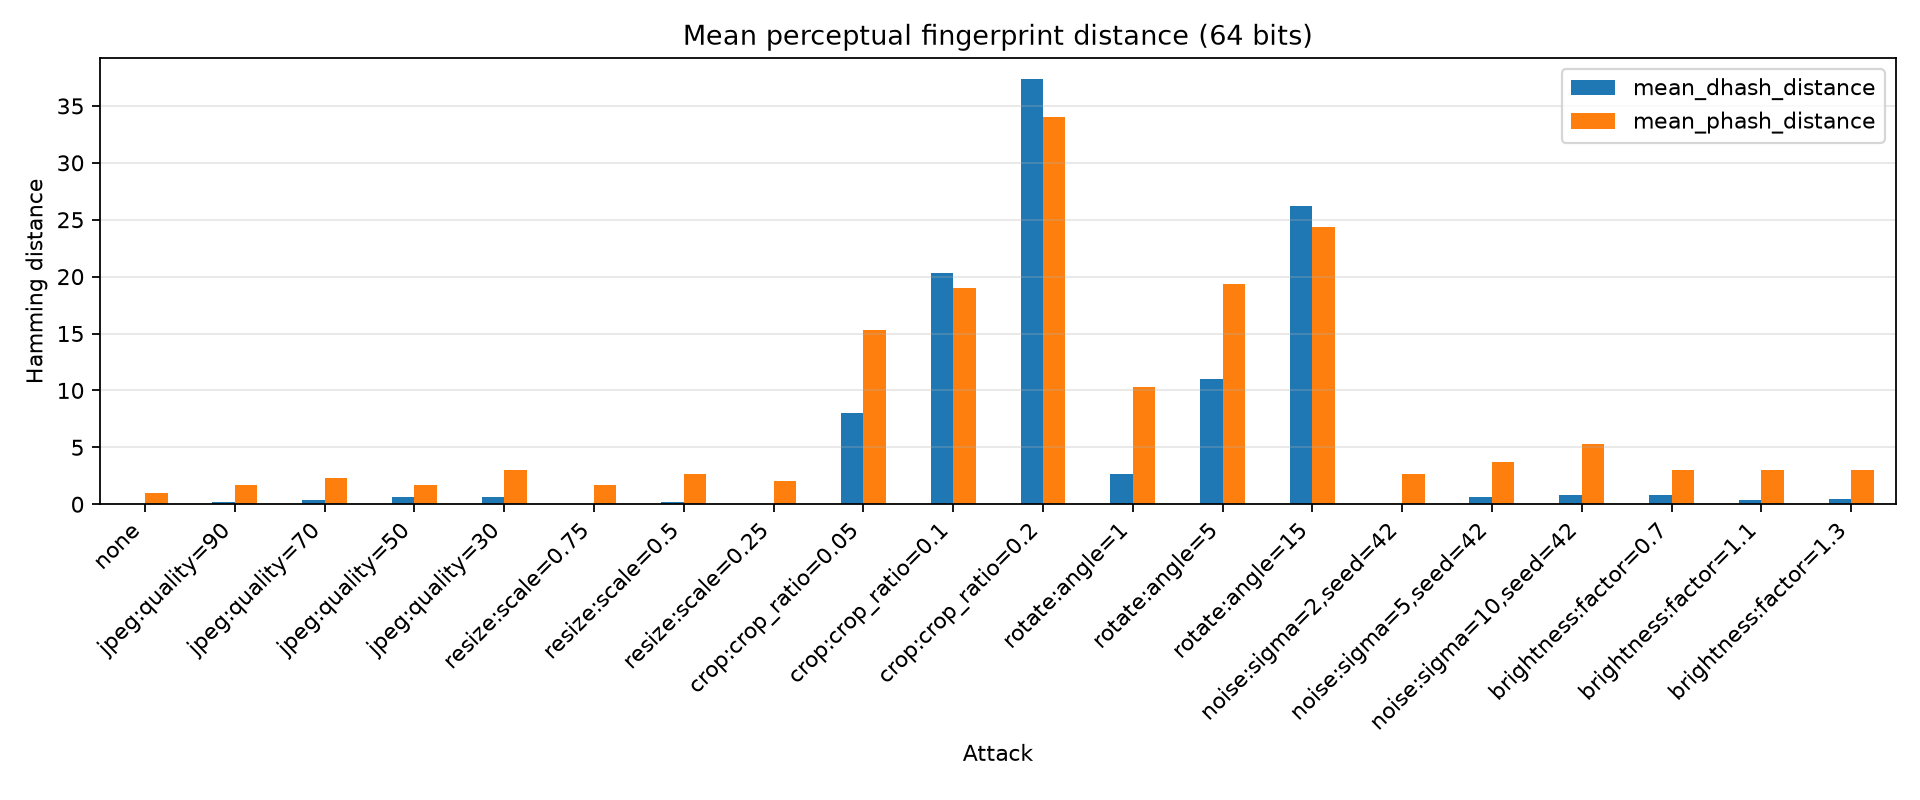
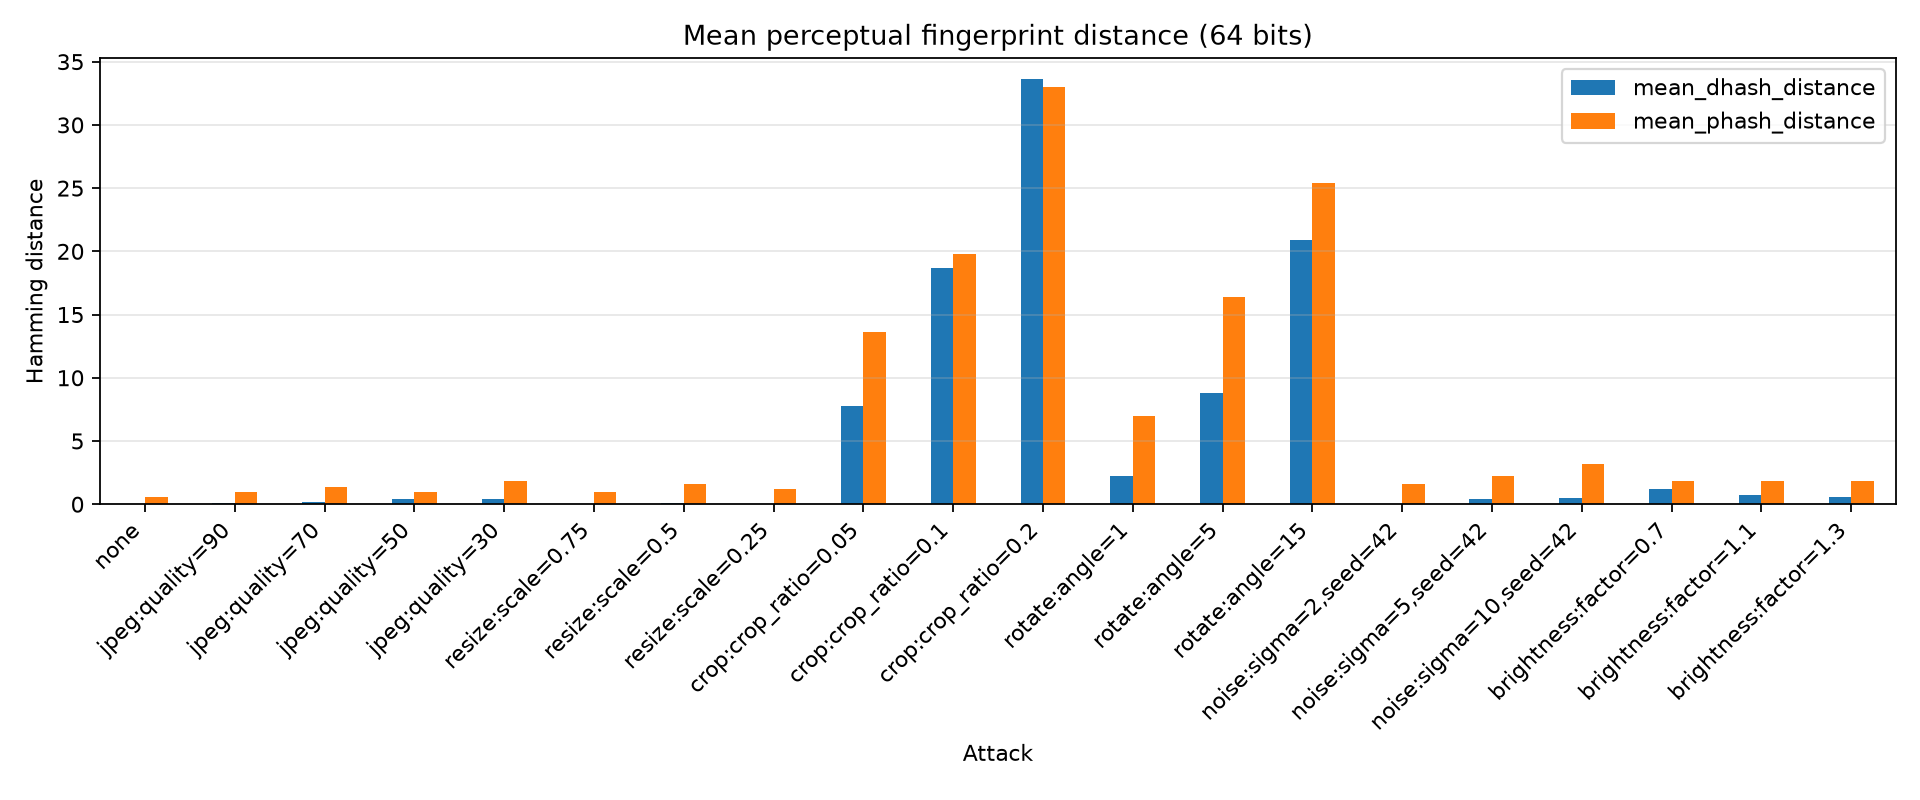
added original images and glossary document

diff --git a/docs/glossary.md b/docs/glossary.md
@@ -1,0 +1,121 @@
+# 用語集
+
+学習メモ
+
+## ウォーターマーク
+
+画像・音声・動画などのコンテンツに、所有者情報や識別情報を埋め込む技術です。このプロジェクトでは、画像に `creator-123` のようなペイロードを埋め込み、加工後にも復元できるかを評価しています。
+
+## ペイロード
+
+ウォーターマークとして埋め込む実際の情報です。今回の実験では `creator-123` がペイロードです。
+
+## フィンガープリント
+
+画像そのものから特徴を取り出し、指紋のように識別するための値を作る技術です。ウォーターマークと違い、画像の中に新しい情報を埋め込むわけではありません。
+
+## LSB
+
+Least Significant Bit の略で、日本語では「最下位ビット」です。2進数で表した数値の一番右の桁を指します。画像のピクセル値のLSBを少し変えることで、見た目をほとんど変えずに情報を埋め込めます。ただし、JPEG圧縮やノイズのようにピクセル値を変える加工には弱いです。
+
+## DCT
+
+Discrete Cosine Transform の略で、日本語では「離散コサイン変換」です。画像をピクセルの値そのものではなく、低周波・高周波といった周波数成分に分解する変換です。JPEG圧縮でも使われています。このプロジェクトでは、DCT係数を少し変えることでウォーターマークを埋め込んでいます。
+
+## 周波数成分
+
+画像の変化の細かさを表す考え方です。低周波成分は、画像全体のなだらかな明るさや色の変化を表します。高周波成分は、輪郭や細かい模様のような急な変化を表します。
+
+## 8×8ブロック
+
+画像を縦8ピクセル、横8ピクセルの小さなブロックに分けたものです。JPEGやこのプロジェクトのDCTウォーターマークでは、画像全体をこの単位に分けて処理します。
+
+## DCT係数
+
+DCTを行った後に得られる数値です。それぞれの係数は、画像ブロック内の特定の周波数成分の強さを表します。このプロジェクトでは、特定の2つの係数の大小関係を変えることで、0または1のビットを埋め込んでいます。
+
+## strength
+
+ウォーターマークをどれくらい強く埋め込むかを表すパラメータです。大きくすると加工に強くなりやすい一方、画像の見た目が劣化しやすくなります。
+
+## repetition
+
+同じビットを何回繰り返して埋め込むかを表すパラメータです。一部の埋め込み箇所が壊れても、多数決で復元できる可能性を上げるために使います。
+
+## 多数決
+
+同じ情報を複数回読み取り、最も多く出た結果を採用する方法です。たとえば同じビットを5回読み取り、`1, 1, 0, 1, 0` なら `1` と判断します。
+
+## 攻撃
+
+この分野での「攻撃」は、画像を壊す不正アクセスという意味だけではなく、ウォーターマークやフィンガープリントの検出を難しくする画像加工を指します。今回の攻撃には、JPEG圧縮、リサイズ、切り抜き、回転、ノイズ追加、明るさ変更があります。
+
+## JPEG圧縮
+
+画像ファイルサイズを小さくするための不可逆圧縮です。不可逆とは、保存時に一部の情報が失われ、完全には元に戻せないという意味です。LSBのようにピクセル値の細かい違いに依存する方式は、JPEG圧縮で壊れやすいです。
+
+## リサイズ
+
+画像の大きさを変更する加工です。縮小後に元サイズへ戻すと、細かい情報が失われるため、ウォーターマークやフィンガープリントに影響します。
+
+## クロップ
+
+画像の一部を切り抜く加工です。このプロジェクトでは中央部分を残して再拡大しています。DCT方式では、切り抜きによって8×8ブロックの位置関係がずれるため、復元に失敗しやすくなります。
+
+## 回転
+
+画像を指定角度だけ回す加工です。わずかな回転でもピクセルの位置やブロック境界が変わるため、ウォーターマークの抽出が難しくなります。
+
+## 同期
+
+埋め込んだ位置と、読み出す位置が対応している状態です。切り抜きや回転によって位置がずれると、どこを読めばよいか分からなくなります。この問題を同期ずれと考えることができます。
+
+## dHash
+
+Difference Hash の略です。画像を小さくし、隣り合うピクセルの明るさを比較してハッシュ値を作ります。画像全体の細かなピクセル値よりも、明るさの変化の傾向を見る方法です。
+
+## pHash
+
+Perceptual Hash の略です。DCTを使って画像の低周波成分を取り出し、見た目の特徴をハッシュ値にします。完全一致ではなく、人間の見た目に近い類似性を扱うための方法です。
+
+## 知覚ハッシュ
+
+画像の見た目の特徴を短い値にしたものです。通常の暗号学的ハッシュとは違い、少し加工された似た画像なら近い値になることを目指します。
+
+## 暗号学的ハッシュ
+
+入力データから固定長の値を作る関数です。SHA-256などが代表例です。入力が1ビットでも変わると出力が大きく変わる性質があるため、画像の類似判定には基本的に向きません。
+
+## ハミング距離
+
+2つのビット列を比べて、異なる位置の数を数えたものです。たとえば `101100` と `100110` は2か所違うので、ハミング距離は2です。dHashやpHashの比較に使っています。
+
+## PSNR
+
+Peak Signal-to-Noise Ratio の略です。元画像と加工後画像の画素値の差をもとに、画像がどれくらい劣化したかを測ります。値が大きいほど、元画像に近いことを意味します。
+
+## SSIM
+
+Structural Similarity Index Measure の略です。画像の構造的な似ている度合いを測る指標です。1に近いほど似ています。PSNRよりも、人間の見た目に近い評価を目指した指標です。
+
+## 完全復元率
+
+埋め込んだペイロードを、攻撃後に完全に同じ内容として取り出せた割合です。このプロジェクトでは、1文字でも違えば失敗として扱います。
+
+## トレードオフ
+
+一方を良くすると、もう一方が悪くなりやすい関係です。ウォーターマークでは、埋め込みを強くすると耐性は上がりやすい一方、画質が下がりやすくなります。
+
+## 脅威モデル
+
+どのような攻撃者や加工を想定して評価するかを定義したものです。このプロジェクトでは、画像内容を大きく変えない範囲のJPEG圧縮、リサイズ、切り抜き、回転、ノイズ、明るさ変更を想定しています。
+
+## 今後追記したい用語
+
+- 誤り訂正符号
+- BCH符号
+- Reed–Solomon符号
+- ROC曲線
+- 偽陽性率
+- 偽陰性率
+- 同期マーカー

diff --git a/README.md b/README.md
@@ -79,7 +79,7 @@ watermark-benchmark --config configs/default.yaml
 
 ## 初期実験結果
 
-合成画像3枚、識別子`creator-123`、DCT強度45・反復5で、120組み合わせを実行した初期結果です。小規模な合成データによるパイプライン確認であり、方式一般の性能を示す結論ではありません。
+合成画像3枚に加えて、自分で追加した写真画像2枚（`beach.png`, `myself.png`）を含む計5枚、識別子`creator-123`、DCT強度45・反復5で、200組み合わせを実行した結果です。小規模なデータによるパイプライン確認であり、方式一般の性能を示す結論ではありません。
 
 | 条件 | LSB完全復元率 | DCT完全復元率 |
 |---|---:|---:|
@@ -91,9 +91,11 @@ watermark-benchmark --config configs/default.yaml
 | 回転1° / 5° / 15° | すべて0% | すべて0% |
 | ノイズσ=2 / 5 / 10 | すべて0% | すべて100% |
 | 明るさ0.7 / 1.1 | 0% | 100% |
-| 明るさ1.3 | 0% | 66.7% |
+| 明るさ1.3 | 0% | 80% |
 
-加工なしのDCT埋め込み画像は平均PSNR 36.70 dB、平均SSIM 0.912でした。全測定値と画像単位の失敗は`results/default/raw_results.csv`、集計値は`summary.csv`で確認できます。
+加工なしのDCT埋め込み画像は平均PSNR 39.63 dB、平均SSIM 0.946でした。LSBは加工なしでは完全復元できる一方、JPEG圧縮・リサイズ・切り抜き・回転・ノイズ・明るさ変更のすべてで復元に失敗しました。DCTはJPEG圧縮、軽いリサイズ、ノイズ、明るさ変更に比較的強い一方、切り抜きや回転では8×8ブロック境界との同期を失いやすく、今回の条件では復元できませんでした。
+
+全測定値と画像単位の失敗は`results/default/raw_results.csv`、集計値は`summary.csv`で確認できます。
 
 ![ウォーターマーク完全復元率](docs/assets/watermark_detection_rate.png)
 
@@ -149,7 +151,7 @@ pytest
 - DCT抽出は8×8ブロック境界に依存し、切り抜きや回転で同期を失いやすい
 - 反復多数決は単純な冗長化であり、BCHやReed–Solomonなどの誤り訂正符号ではない
 - ペイロードは暗号化・署名されておらず、所有者の真正性を証明しない
-- 合成サンプル3枚は動作確認用で、統計的な結論を出すには不足している
+- 現在の画像5枚は動作確認用で、統計的な結論を出すには不足している
 - 画像全体の意味的類似性や生成AIによる改変は評価していない
 
 今後は、公開データセットの導入、誤り訂正符号、同期マーカー、攻撃強度ごとの信頼区間、異画像ペアを含むROC評価が候補です。
